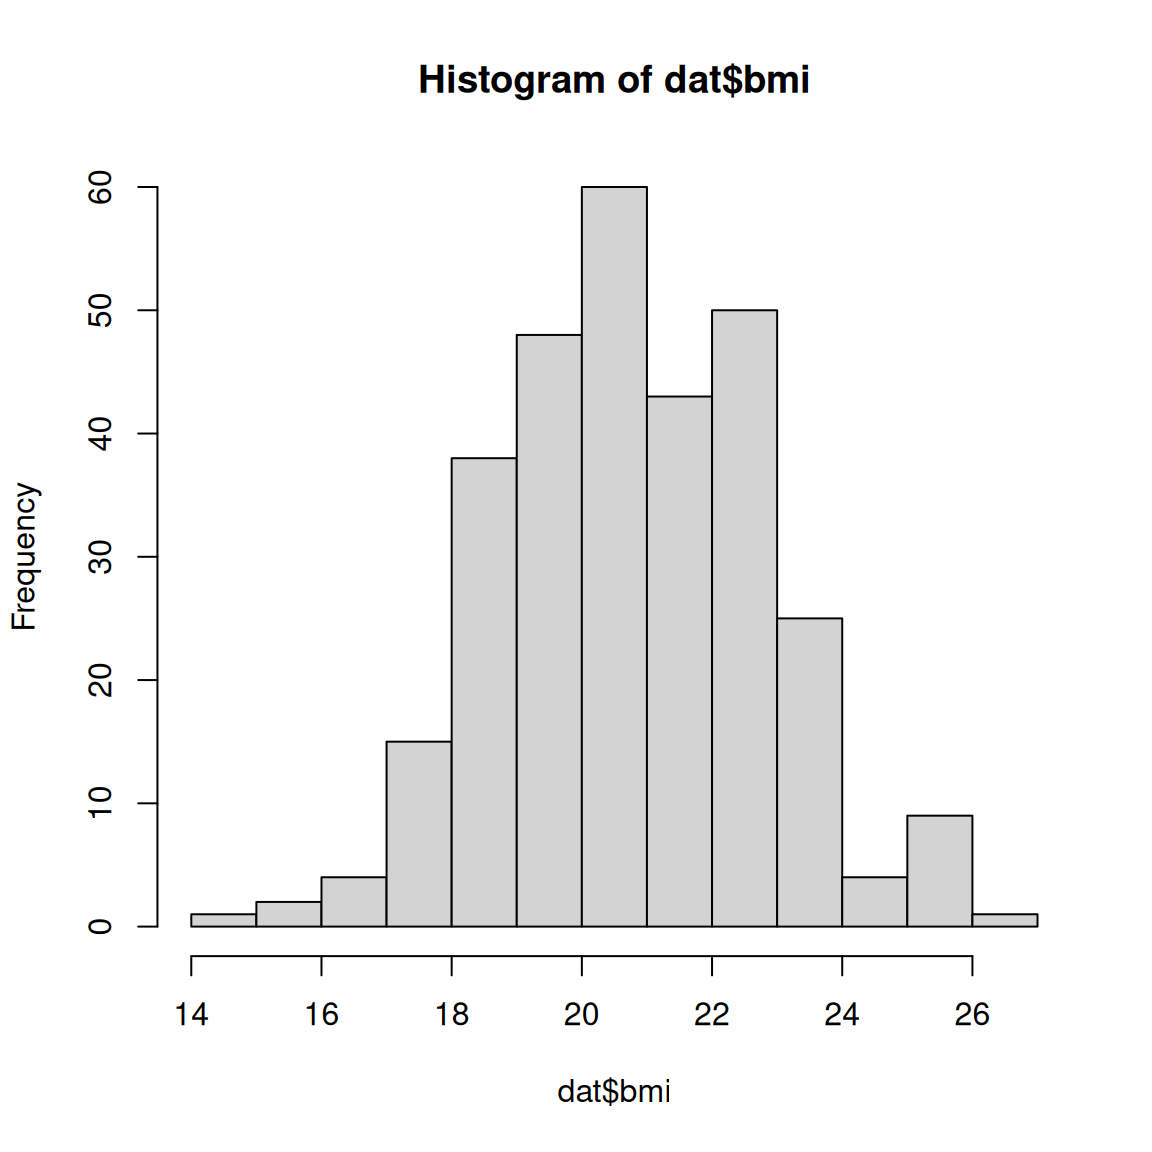
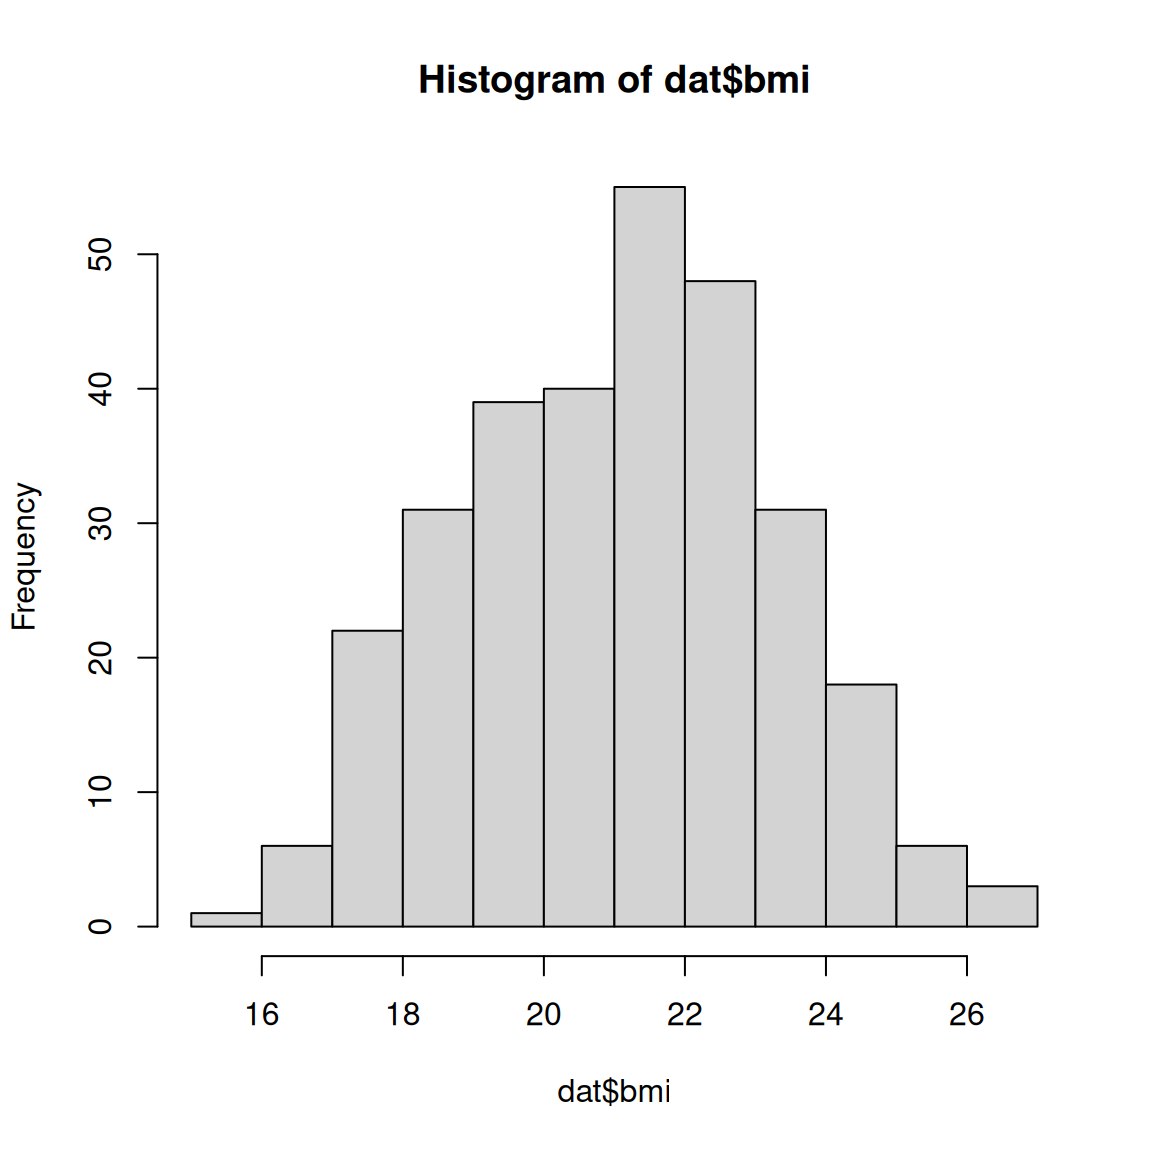
Update rendered slides

diff --git a/docs/medicine/pituitary_incidentaloma/index.html b/docs/medicine/pituitary_incidentaloma/index.html
@@ -33,6 +33,7 @@
     div.csl-bib-body { }
     div.csl-entry {
       clear: both;
+      margin-bottom: 0em;
     }
     .hanging-indent div.csl-entry {
       margin-left:2em;
@@ -185,7 +186,7 @@ Nozomi Niimi
 </ul></li>
 </ul></li>
 </ul>
-<p><span class="citation" data-cites="Teramoto1994-zv">[@Teramoto1994-zv]</span></p>
+<p><span class="citation" data-cites="Teramoto1994-zv">(<a href="#/reference" role="doc-biblioref" onclick="">Teramoto ほか 1994</a>)</span></p>
 </section>
 <section id="下垂体偶発種の疫学" class="slide level2">
 <h2>下垂体偶発種の疫学</h2>
@@ -223,7 +224,7 @@ Nozomi Niimi
 </tr>
 </tbody>
 </table>
-<p><span class="citation" data-cites="DynaMed_SellarMass_2026">[@DynaMed_SellarMass_2026]</span></p>
+<p><span class="citation" data-cites="DynaMed_SellarMass_2026">(<a href="#/reference" role="doc-biblioref" onclick="">DynaMed, 日付なし</a>)</span></p>
 <ul>
 <li>今回は最多の下垂体腺腫について話していきます</li>
 </ul>
@@ -254,7 +255,7 @@ Nozomi Niimi
 <section id="下垂体腺腫-at-glance" class="slide level2">
 <h2>下垂体腺腫 at glance</h2>
 <p><img data-src="images/PA_atglance.png"> <!-- TODO: 手動調整: 元Typst画像高さ 90% --></p>
-<p><span class="citation" data-cites="Melmed2020-dy">[@Melmed2020-dy]</span></p>
+<p><span class="citation" data-cites="Melmed2020-dy">(<a href="#/reference" role="doc-biblioref" onclick="">Melmed 2020</a>)</span></p>
 </section>
 <section id="下垂体偶発種を語る上で重要な視点" class="slide level2">
 <h2>下垂体偶発種を語る上で重要な視点</h2>
@@ -287,7 +288,7 @@ Nozomi Niimi
 </ul></li>
 <li>Incidentalomaだと、非機能性腺腫が多い事は注目に値する</li>
 </ul>
-<p><span class="citation" data-cites="Freda2011-fv">[@Freda2011-fv]</span></p>
+<p><span class="citation" data-cites="Freda2011-fv">(<a href="#/reference" role="doc-biblioref" onclick="">Freda ほか 2011</a>)</span></p>
 </section>
 <section id="pituitary-incidentalomaを見たら" class="slide level2">
 <h2>Pituitary incidentalomaを見たら・・・・・・</h2>
@@ -303,7 +304,7 @@ Nozomi Niimi
 </section>
 <section id="ホルモン検査の原則" class="slide level2">
 <h2>ホルモン検査の原則</h2>
-<p><img data-src="images/PA_hormone.png"> <!-- TODO: 手動調整: 元Typst画像高さ 40% --> <span class="citation" data-cites="Takeuchi_ToranomonEndocrineClinicalPractice_2023">[@Takeuchi_ToranomonEndocrineClinicalPractice_2023]</span></p>
+<p><img data-src="images/PA_hormone.png"> <!-- TODO: 手動調整: 元Typst画像高さ 40% --> <span class="citation" data-cites="Takeuchi_ToranomonEndocrineClinicalPractice_2023">(<a href="#/reference" role="doc-biblioref" onclick="">靖博, 彰, と 啓太 2023</a>)</span></p>
 <ul>
 <li>ホルモン検査は日内変動が大きい</li>
 <li>Positive/Negative feedbackにより代償されやすい</li>
@@ -337,7 +338,7 @@ Nozomi Niimi
 </ul></li>
 <li>PRL, ACTH, GHは検索すべし！！</li>
 </ul>
-<p><span class="citation" data-cites="Tritos2023-tk">[@Tritos2023-tk]</span></p>
+<p><span class="citation" data-cites="Tritos2023-tk">(<a href="#/reference" role="doc-biblioref" onclick="">Tritos と Miller 2023</a>)</span></p>
 </section>
 <section id="ホルモン過剰産生の各論" class="slide level2">
 <h2>ホルモン過剰産生の各論</h2>
@@ -361,12 +362,12 @@ Nozomi Niimi
 <li>Stalk effectだけではPRL &lt; 150 mcg/L程度である事が多い</li>
 </ul></li>
 </ul>
-<p><span class="citation" data-cites="Tritos2023-tk">[@Tritos2023-tk]</span></p>
+<p><span class="citation" data-cites="Tritos2023-tk">(<a href="#/reference" role="doc-biblioref" onclick="">Tritos と Miller 2023</a>)</span></p>
 </section>
 <section id="cushing" class="slide level2">
 <h2>Cushing syndrome</h2>
 <ul>
-<li>2011年のガイドラインだと実はルーチン検査ではない (臨床的に疑った時のみ) <span class="citation" data-cites="Freda2011-fv">[@Freda2011-fv]</span></li>
+<li>2011年のガイドラインだと実はルーチン検査ではない (臨床的に疑った時のみ) <span class="citation" data-cites="Freda2011-fv">(<a href="#/reference" role="doc-biblioref" onclick="">Freda ほか 2011</a>)</span></li>
 <li>個人的には、Macroadenomaならばルーチンで行うべきと考える</li>
 <li>3種類の方法があるが、一番簡単なのはLDST
 <ul>
@@ -409,7 +410,7 @@ Nozomi Niimi
 <li>UptodateだとPRL、IGF-1、LH、FSH、ACTH、24時間尿中Cortisol推奨</li>
 </ul></li>
 </ul>
-<p><span class="citation" data-cites="Boguszewski2019-ne Snyder_PituitaryIncidentalomas_2026">[@Boguszewski2019-ne; @Snyder_PituitaryIncidentalomas_2026]</span></p>
+<p><span class="citation" data-cites="Boguszewski2019-ne Snyder_PituitaryIncidentalomas_2026">(<a href="#/reference" role="doc-biblioref" onclick="">Boguszewski, Castro Musolino, と Kasuki 2019</a>; <a href="#/reference" role="doc-biblioref" onclick="">Snyder, 日付なし</a>)</span></p>
 </section></section>
 <section>
 <section id="下垂体機能不全" class="title-slide slide level1 center">
@@ -435,7 +436,7 @@ Nozomi Niimi
 </ul></li>
 <li>2011年のガイドラインだとClass Iでホルモン欠乏の検査の推奨</li>
 </ul>
-<p><span class="citation" data-cites="Takeuchi_ToranomonEndocrineClinicalPractice_2023 Freda2011-fv">[@Takeuchi_ToranomonEndocrineClinicalPractice_2023; @Freda2011-fv]</span></p>
+<p><span class="citation" data-cites="Takeuchi_ToranomonEndocrineClinicalPractice_2023 Freda2011-fv">(<a href="#/reference" role="doc-biblioref" onclick="">靖博, 彰, と 啓太 2023</a>; <a href="#/reference" role="doc-biblioref" onclick="">Freda ほか 2011</a>)</span></p>
 </section>
 <section id="下垂体機能不全総論-1" class="slide level2">
 <h2>下垂体機能不全総論</h2>
@@ -448,7 +449,7 @@ Nozomi Niimi
 <li>一方で、HypogonadismやGH欠乏は成人だと治療適応も難しい =&gt; 見るべきは、<em>副腎不全、甲状腺機能低下症</em></li>
 <li>中枢性副腎不全→TSH欠乏→中枢性Hypogonadismの検査
 <ul>
-<li>GH欠乏は下垂体腺腫の治療が終わり他のホルモン補充が終わったあとまでは検査しない事を推奨。 <span class="citation" data-cites="Higham2016-hs">[@Higham2016-hs]</span></li>
+<li>GH欠乏は下垂体腺腫の治療が終わり他のホルモン補充が終わったあとまでは検査しない事を推奨。 <span class="citation" data-cites="Higham2016-hs">(<a href="#/reference" role="doc-biblioref" onclick="">Higham, Johannsson, と Shalet 2016</a>)</span></li>
 </ul></li>
 </ul>
 </section>
@@ -505,7 +506,7 @@ Nozomi Niimi
 <li>2011年のガイドラインでは、IGF-1低下のみでGH欠乏の診断は出来ない</li>
 </ul></li>
 </ul>
-<p><span class="citation" data-cites="DynaMed_SellarMass_2026 Freda2011-fv">[@DynaMed_SellarMass_2026; @Freda2011-fv]</span></p>
+<p><span class="citation" data-cites="DynaMed_SellarMass_2026 Freda2011-fv">(<a href="#/reference" role="doc-biblioref" onclick="">DynaMed, 日付なし</a>; <a href="#/reference" role="doc-biblioref" onclick="">Freda ほか 2011</a>)</span></p>
 </section>
 <section id="hypogonado" class="slide level2">
 <h2>Hypogonadism総論</h2>
@@ -551,7 +552,7 @@ Nozomi Niimi
 <li>尿糖なしの時に、血清浸透圧 &gt;295 mOsm/kg、尿浸透圧が600 mOsm/kgの時(尿と血清浸透圧の比が2以上)が正常</li>
 <li>尿崩症は血清浸透圧 &gt;295 mOsm/kgの時に尿浸透圧が600 mOsm/kg未満の時(尿と血清浸透圧の比が2未満)で診断される</li>
 </ul></li>
-<li>水分制限試験の亜種として、3%食塩水刺激試験がある <span class="citation" data-cites="Takeuchi_ToranomonEndocrineClinicalPractice_2023">[@Takeuchi_ToranomonEndocrineClinicalPractice_2023]</span></li>
+<li>水分制限試験の亜種として、3%食塩水刺激試験がある <span class="citation" data-cites="Takeuchi_ToranomonEndocrineClinicalPractice_2023">(<a href="#/reference" role="doc-biblioref" onclick="">靖博, 彰, と 啓太 2023</a>)</span></li>
 </ul>
 </section>
 <section id="いつどのように検査をする-1" class="slide level2">
@@ -568,12 +569,12 @@ Nozomi Niimi
 <li>Microadenomaだとより分かっていない。UptodateだとPRLだけ推奨だが2011年のEndocrine Society Guidelineとは異なる。</li>
 </ul></li>
 </ul>
-<p><span class="citation" data-cites="Freda2011-fv Snyder_PituitaryIncidentalomas_2026">[@Freda2011-fv; @Snyder_PituitaryIncidentalomas_2026]</span></p>
+<p><span class="citation" data-cites="Freda2011-fv Snyder_PituitaryIncidentalomas_2026">(<a href="#/reference" role="doc-biblioref" onclick="">Freda ほか 2011</a>; <a href="#/reference" role="doc-biblioref" onclick="">Snyder, 日付なし</a>)</span></p>
 </section>
 <section id="視野障害について" class="slide level2">
 <h2>視野障害について</h2>
 
-<img data-src="images/PA_anatomy.png" class="r-stretch"><p><span class="citation" data-cites="Molitch2017-zw">[@Molitch2017-zw]</span></p>
+<img data-src="images/PA_anatomy.png" class="r-stretch"><p><span class="citation" data-cites="Molitch2017-zw">(<a href="#/reference" role="doc-biblioref" onclick="">Molitch 2017</a>)</span></p>
 <ul>
 <li>下垂体の真上に視交叉があり押されると<em>両耳側半盲</em>が起こる
 <ul>
@@ -581,7 +582,7 @@ Nozomi Niimi
 <li>海綿静脈洞内に伸展するとIII, IV, V1などが障害される事もある</li>
 </ul></li>
 </ul>
-<p><span class="citation" data-cites="Westall2023-rb">[@Westall2023-rb]</span></p>
+<p><span class="citation" data-cites="Westall2023-rb">(<a href="#/reference" role="doc-biblioref" onclick="">Westall ほか 2023</a>)</span></p>
 </section></section>
 <section>
 <section id="治療法" class="title-slide slide level1 center">
@@ -615,7 +616,7 @@ Nozomi Niimi
 <li>副腎不全がある場合は先に副腎不全を治療する</li>
 <li>GHや性ホルモンの補充は適応が難しいので専門医にコンサルト</li>
 </ul>
-<p><span class="citation" data-cites="Fleseriu2016-pm">[@Fleseriu2016-pm]</span></p>
+<p><span class="citation" data-cites="Fleseriu2016-pm">(<a href="#/reference" role="doc-biblioref" onclick="">Fleseriu ほか 2016</a>)</span></p>
 </section>
 <section id="follow-up" class="slide level2">
 <h2>Follow up</h2>
@@ -630,17 +631,52 @@ Nozomi Niimi
 <li>Macro/Microadenoma: 半年後→1年毎に行う/ルーチンは不要</li>
 </ul></li>
 </ul>
-<p><span class="citation" data-cites="Freda2011-fv">[@Freda2011-fv]</span></p>
+<p><span class="citation" data-cites="Freda2011-fv">(<a href="#/reference" role="doc-biblioref" onclick="">Freda ほか 2011</a>)</span></p>
 </section>
 <section id="下垂体偶発種at-glance" class="slide level2">
 <h2>下垂体偶発種at glance</h2>
 
-<img data-src="images/PA_manage.png" class="r-stretch"><p><span class="citation" data-cites="Boguszewski2019-ne">[@Boguszewski2019-ne]</span></p>
+<img data-src="images/PA_manage.png" class="r-stretch"><p><span class="citation" data-cites="Boguszewski2019-ne">(<a href="#/reference" role="doc-biblioref" onclick="">Boguszewski, Castro Musolino, と Kasuki 2019</a>)</span></p>
 </section>
 <section id="reference" class="slide level2 smaller scrollable">
 <h2>Reference</h2>
-<div id="refs" role="list">
-
+<div id="refs" class="references csl-bib-body hanging-indent" data-entry-spacing="0" role="list">
+<div id="ref-Boguszewski2019-ne" class="csl-entry" role="listitem">
+Boguszewski, Cesar Luiz, Nina Rosa de Castro Musolino, と Leandro Kasuki. 2019. <span>「Management of pituitary incidentaloma」</span>. <em>Best practice &amp; research. Clinical endocrinology &amp; metabolism</em> 33 (2): 101268. <a href="https://doi.org/10.1016/j.beem.2019.04.002">https://doi.org/10.1016/j.beem.2019.04.002</a>.
+</div>
+<div id="ref-DynaMed_SellarMass_2026" class="csl-entry" role="listitem">
+DynaMed. 日付なし. <span>「Sellar Mass - Approach to the Patient」</span>. EBSCO Information Services. <a href="https://www.dynamed.com/approach-to/sellar-mass-approach-to-the-patient">https://www.dynamed.com/approach-to/sellar-mass-approach-to-the-patient</a>.
+</div>
+<div id="ref-Fleseriu2016-pm" class="csl-entry" role="listitem">
+Fleseriu, Maria, Ibrahim A Hashim, Niki Karavitaki, Shlomo Melmed, M Hassan Murad, Roberto Salvatori, と Mary H Samuels. 2016. <span>「Hormonal replacement in hypopituitarism in adults: An Endocrine Society clinical practice guideline」</span>. <em>The journal of clinical endocrinology and metabolism</em> 101 (11): 3888–3921. <a href="https://doi.org/10.1210/jc.2016-2118">https://doi.org/10.1210/jc.2016-2118</a>.
+</div>
+<div id="ref-Freda2011-fv" class="csl-entry" role="listitem">
+Freda, Pamela U, Albert M Beckers, Laurence Katznelson, Mark E Molitch, Victor M Montori, Kalmon D Post, Mary Lee Vance, と Endocrine Society. 2011. <span>「Pituitary incidentaloma: an endocrine society clinical practice guideline」</span>. <em>The journal of clinical endocrinology and metabolism</em> 96 (4): 894–904. <a href="https://doi.org/10.1210/jc.2010-1048">https://doi.org/10.1210/jc.2010-1048</a>.
+</div>
+<div id="ref-Higham2016-hs" class="csl-entry" role="listitem">
+Higham, Claire E, Gudmundur Johannsson, と Stephen M Shalet. 2016. <span>「Hypopituitarism」</span>. <em>Lancet</em> 388 (10058): 2403–15. <a href="https://doi.org/10.1016/S0140-6736(16)30053-8">https://doi.org/10.1016/S0140-6736(16)30053-8</a>.
+</div>
+<div id="ref-Melmed2020-dy" class="csl-entry" role="listitem">
+Melmed, Shlomo. 2020. <span>「Pituitary-tumor endocrinopathies」</span>. <em>The New England Journal of Medicine</em> 382 (10): 937–50. <a href="https://doi.org/10.1056/NEJMra1810772">https://doi.org/10.1056/NEJMra1810772</a>.
+</div>
+<div id="ref-Molitch2017-zw" class="csl-entry" role="listitem">
+Molitch, Mark E. 2017. <span>「Diagnosis and treatment of pituitary adenomas: A review」</span>. <em>JAMA: the journal of the American Medical Association</em> 317 (5): 516–24. <a href="https://doi.org/10.1001/jama.2016.19699">https://doi.org/10.1001/jama.2016.19699</a>.
+</div>
+<div id="ref-Snyder_PituitaryIncidentalomas_2026" class="csl-entry" role="listitem">
+Snyder, Peter J. 日付なし. <span>「Pituitary incidentalomas」</span>. <em>UpToDate</em>, 編集者： Rebecca F. Connor. Wolters Kluwer. <a href="https://www.uptodate.com/contents/pituitary-incidentalomas">https://www.uptodate.com/contents/pituitary-incidentalomas</a>.
+</div>
+<div id="ref-Teramoto1994-zv" class="csl-entry" role="listitem">
+Teramoto, A, K Hirakawa, N Sanno, と Y Osamura. 1994. <span>「Incidental pituitary lesions in 1,000 unselected autopsy specimens」</span>. <em>Radiology</em> 193 (1): 161–64. <a href="https://doi.org/10.1148/radiology.193.1.8090885">https://doi.org/10.1148/radiology.193.1.8090885</a>.
+</div>
+<div id="ref-Tritos2023-tk" class="csl-entry" role="listitem">
+Tritos, Nicholas A, と Karen K Miller. 2023. <span>「Diagnosis and Management of Pituitary Adenomas: A Review」</span>. <em>JAMA: the journal of the American Medical Association</em> 329 (16): 1386–98. <a href="https://doi.org/10.1001/jama.2023.5444">https://doi.org/10.1001/jama.2023.5444</a>.
+</div>
+<div id="ref-Westall2023-rb" class="csl-entry" role="listitem">
+Westall, Samuel J, Ei Thuzar Aung, Helmine Kejem, Christina Daousi, と Sravan K Thondam. 2023. <span>「Management of pituitary incidentalomas」</span>. <em>Clinical medicine (London, England)</em> 23 (2): 129–34. <a href="https://doi.org/10.7861/clinmed.2023-0020">https://doi.org/10.7861/clinmed.2023-0020</a>.
+</div>
+<div id="ref-Takeuchi_ToranomonEndocrineClinicalPractice_2023" class="csl-entry" role="listitem">
+靖博, 彰, と 啓太, 編. 2023. <em>虎の門病院内分泌クリニカルプラクティス：外来・入院からフォローアップまで</em>. 改訂版. クリニコ出版.
+</div>
 </div>
 
 

diff --git a/docs/statistics/bootstrap/index.html b/docs/statistics/bootstrap/index.html
@@ -199,43 +199,43 @@ Nozomi Niimi
 <tbody>
 <tr class="odd">
 <td style="text-align: right;">1</td>
-<td style="text-align: right;">22.19334</td>
+<td style="text-align: right;">23.72091</td>
 </tr>
 <tr class="even">
 <td style="text-align: right;">2</td>
-<td style="text-align: right;">16.96660</td>
+<td style="text-align: right;">18.76268</td>
 </tr>
 <tr class="odd">
 <td style="text-align: right;">3</td>
-<td style="text-align: right;">23.49651</td>
+<td style="text-align: right;">23.47630</td>
 </tr>
 <tr class="even">
 <td style="text-align: right;">4</td>
-<td style="text-align: right;">19.49528</td>
+<td style="text-align: right;">20.81587</td>
 </tr>
 <tr class="odd">
 <td style="text-align: right;">5</td>
-<td style="text-align: right;">19.26215</td>
+<td style="text-align: right;">18.53341</td>
 </tr>
 <tr class="even">
 <td style="text-align: right;">6</td>
-<td style="text-align: right;">19.01104</td>
+<td style="text-align: right;">23.10958</td>
 </tr>
 <tr class="odd">
 <td style="text-align: right;">7</td>
-<td style="text-align: right;">21.72973</td>
+<td style="text-align: right;">20.77158</td>
 </tr>
 <tr class="even">
 <td style="text-align: right;">8</td>
-<td style="text-align: right;">21.47534</td>
+<td style="text-align: right;">22.79286</td>
 </tr>
 <tr class="odd">
 <td style="text-align: right;">9</td>
-<td style="text-align: right;">22.48731</td>
+<td style="text-align: right;">23.96372</td>
 </tr>
 <tr class="even">
 <td style="text-align: right;">10</td>
-<td style="text-align: right;">21.35283</td>
+<td style="text-align: right;">23.76351</td>
 </tr>
 </tbody>
 </table>
@@ -331,20 +331,20 @@ Nozomi Niimi
 <tbody>
 <tr class="odd">
 <td style="text-align: right;">1</td>
-<td style="text-align: right;">75.11967</td>
-<td style="text-align: right;">186.4749</td>
+<td style="text-align: right;">71.17142</td>
+<td style="text-align: right;">171.0437</td>
 <td style="text-align: left;"></td>
 </tr>
 <tr class="even">
 <td style="text-align: right;">2</td>
-<td style="text-align: right;">73.16721</td>
-<td style="text-align: right;">195.7337</td>
+<td style="text-align: right;">74.30436</td>
+<td style="text-align: right;">181.6980</td>
 <td style="text-align: left;"></td>
 </tr>
 <tr class="odd">
 <td style="text-align: right;">3</td>
-<td style="text-align: right;">72.05834</td>
-<td style="text-align: right;">204.6609</td>
+<td style="text-align: right;">75.59179</td>
+<td style="text-align: right;">175.4756</td>
 <td style="text-align: left;"></td>
 </tr>
 <tr class="even">
